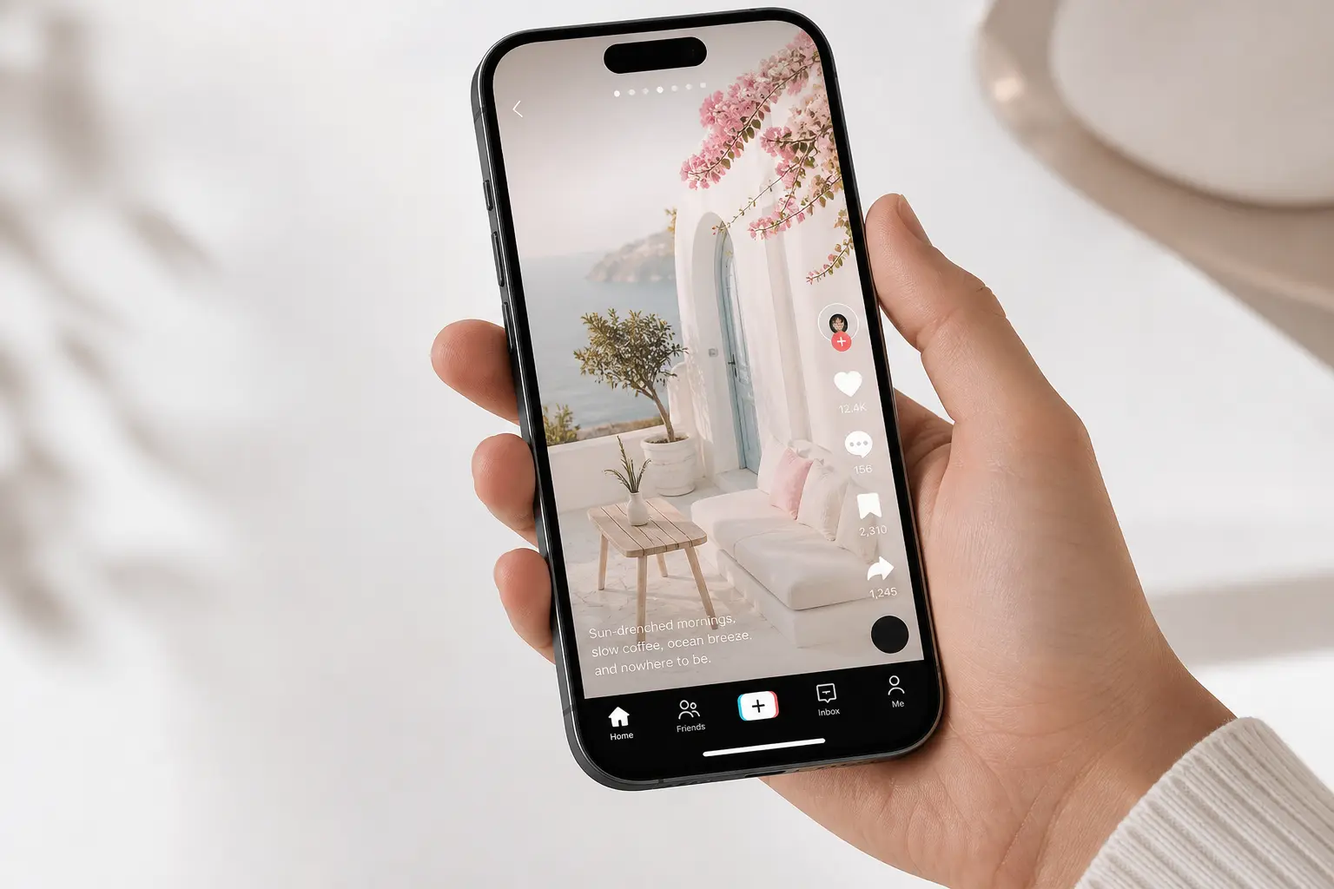
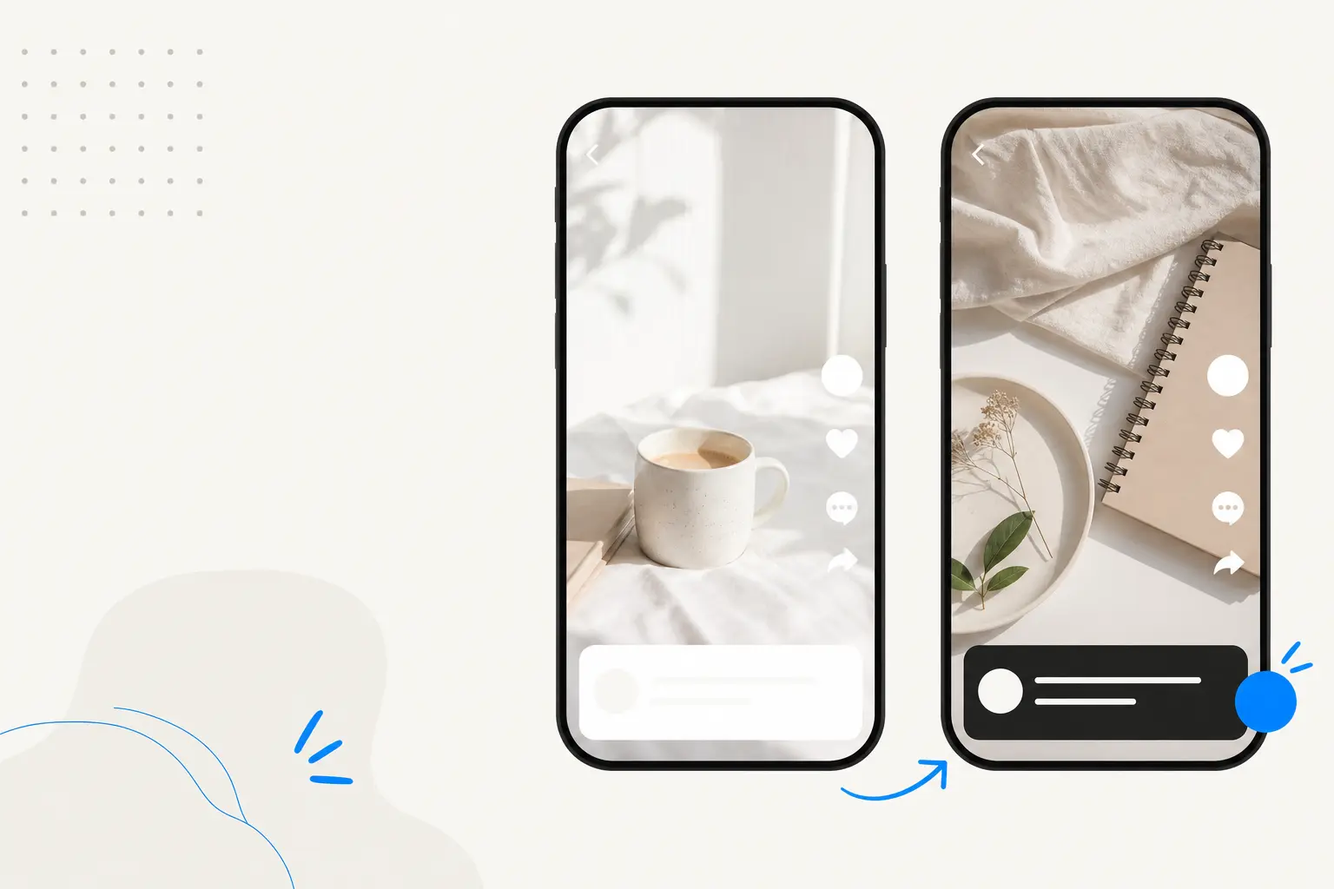
Update Post “tiktok-photo-mode-preview-text-formatting-before-you-post” +1

diff --git a/src/content/blog/en/tiktok-photo-mode-preview-text-formatting-before-you-post.md b/src/content/blog/en/tiktok-photo-mode-preview-text-formatting-before-you-post.md
@@ -1,35 +1,30 @@
 ---
-title: "TikTok Photo Mode: Preview Text Formatting Before You Post"
+translationKey: tiktok-photo-mode-preview-text-formatting-before-you-post
+title: 'TikTok Photo Mode: Preview Text Formatting Before You Post'
+subtitle: TikTok Photo Mode drops white caption text directly on your images - no safe zone. Here's how to check your layout before you publish.
 description: TikTok Photo Mode drops white caption text directly on your images - no safe zone. Here's how to check your layout before you publish.
 publishDate: 2026-06-22
+updatedDate: ''
 locale: en
 slug: tiktok-photo-mode-preview-text-formatting-before-you-post
-translationKey: tiktok-photo-mode-preview-text-formatting-before-you-post
 relatedPlatform: tiktok
 category: tiktok
-author: PostTruncate Team
-draft: true
+author: Anirudha
+draft: false
+ogImage: /og/TikTok_Photo_Mode_Hero.webp
 ---
-
-TikTok Photo Mode drops white caption text directly on your images - no safe zone. Here's how to check your layout before you publish.
-
-*June 22, 2026 · 11 min read*
-
-Two smartphone screens side by side showing TikTok photo carousel - one with invisible caption text on a light background, one with clearly readable caption
-
-* * *
 
 ## TL;DR
 
-TikTok Photo Mode (carousel) overlays your caption text directly on top of your still images using white text on a semi-transparent dark background. Unlike video posts, there is no automatic gradient safe zone protecting your caption from your photo. If your first slide has a light, pastel, or overexposed background, that white text disappears completely. The fix: preview your caption against your actual image before you post. The fold still kicks in at ~100 characters or your first line break - your hook has about one line to prove itself. Use a TikTok layout checker to simulate the real overlay before anything goes live.
+TikTok Photo Mode (carousel) overlays your caption text directly on top of your still images using white text on a semi-transparent dark background. Unlike video posts, there is no automatic gradient safe zone protecting your caption from your photo. If your first slide has a light, pastel, or overexposed background, that white text disappears completely. The fix: preview your caption against your actual image before you post. The fold still kicks in at \~100 characters or your first line break - your hook has about one line to prove itself. Use a TikTok layout checker to simulate the real overlay before anything goes live.
 
 ## I learned this the hard way
 
-I built [PostTruncate.com](/) because I kept getting burned by platforms that looked fine in my phone gallery and fell apart the moment they published.
+I built [PostTruncate.com](/) because I kept getting burned by platforms that looked fine in my phone gallery and fell apart the moment they were published.
 
 The TikTok Photo Mode incident was the one that actually made me stop and think about why I had no tool for this. I had been building character counters and fold simulators for months. I knew exactly where LinkedIn hides text, where Instagram folds captions, what X does to a link's character count. But carousel photos were a blind spot I had not thought through properly.
 
-One afternoon I spent a solid 20 minutes curating what felt like a genuinely nice photo dump. Morning light, consistent tones, the kind of pastel grid aesthetic that accounts with 200k followers make look effortless. I wrote a caption that I thought was sharp. Something about the color palette being intentional, then a question to drive replies. I posted it directly from the app and immediately opened TikTok to see how it looked in the feed.
+One afternoon, I spent a solid 20 minutes curating what felt like a genuinely nice photo dump. Morning light, consistent tones, the kind of pastel grid aesthetic that accounts with 200k followers make look effortless. I wrote a caption that I thought was sharp. Something about the colour palette being intentional, then a question to drive replies. I posted it directly from the app and immediately opened TikTok to see how it looked in the feed.
 
 The caption was invisible. Completely gone. Not truncated behind a "more" button - just visually absent. White text on a light cream-colored morning photo, with about the same contrast as writing in butter on white bread. The hook I had crafted was there in the data, technically, but nobody scrolling the For You Page would ever read it.
 
@@ -39,17 +34,17 @@ I have since heard almost the exact same story from social media managers, lifes
 
 ## What TikTok Photo Mode actually does to your caption
 
-When you post a standard TikTok video, the caption lives in a zone that the platform more or less controls. There is a dark gradient at the bottom of the video frame - a semi-transparent band that darkens the lower portion of the video so white caption text always has some contrast to sit against. Creators still need to keep important content out of the bottom ~20% of the frame (where that UI band lives), but the text itself tends to remain readable because TikTok designed the space for it.
+When you post a standard TikTok video, the caption lives in a zone that the platform more or less controls. There is a dark gradient at the bottom of the video frame - a semi-transparent band that darkens the lower portion of the video so white caption text always has some contrast to sit against. Creators still need to keep important content out of the bottom \~20% of the frame (where that UI band lives), but the text itself tends to remain readable because TikTok designed the space for it.
 
 Photo Mode is different in a way that catches creators off guard.
 
-In Photo Mode, TikTok overlays your caption on the bottom of your still image. There is a semi-transparent dark background behind the text - a thin gradient bar that is supposed to do what the video gradient does. And it works fine as long as your image has midtones or dark colors in the lower third. What it does not do is adapt to a bright, light, or overexposed image. The gradient is fixed. The overlay has a certain opacity. If your photo is mostly white at the bottom - a marble countertop, a white wall, a blown-out morning sky, a flat lay on white paper - that dark band does not get darker. It stays at the same translucency, and the white text on top of it disappears into the background.
+In Photo Mode, TikTok overlays your caption on the bottom of your still image. There is a semi-transparent dark background behind the text - a thin gradient bar that is supposed to do what the video gradient does. And it works fine as long as your image has midtones or dark colours in the lower third. What it does not do is adapt to a bright, light, or overexposed image. The gradient is fixed. The overlay has a certain opacity. If your photo is mostly white at the bottom - a marble countertop, a white wall, a blown-out morning sky, a flat lay on white paper - that dark band does not get darker. It stays at the same translucency, and the white text on top of it disappears into the background.
 
 This is not a bug you can report. It is just how the interface works. The platform renders the caption overlay the same way regardless of what is beneath it. The burden of making text readable against your image is entirely on you, the creator.
 
 Unlike video, where motion draws the eye and the content itself competes for attention, a carousel is a static composition. Every element of the visual design is frozen in place. Viewers who swipe into a carousel are not watching something happen - they are looking at a deliberate arrangement. Bad text contrast does not just degrade the reading experience; it clashes with the aesthetic in a way that registers immediately. It makes the post look unfinished.
 
-There is also the structural difference in how TikTok positions the caption. On video posts, the caption block sits below a certain amount of content. On Photo Mode posts, the caption is positioned so it genuinely overlays the visible image. The first thing many viewers see when they land on a carousel slide is the bottom third of that image, partially covered by the caption bar and the engagement buttons on the right. What is in that region of your image matters more than you might expect.
+There is also a structural difference in how TikTok positions the caption. On video posts, the caption block sits below a certain amount of content. On Photo Mode posts, the caption is positioned so it genuinely overlays the visible image. The first thing many viewers see when they land on a carousel slide is the bottom third of that image, partially covered by the caption bar and the engagement buttons on the right. What is in that region of your image matters more than you might expect.
 
 ## The safe zone geometry you need to know
 
@@ -57,25 +52,25 @@ Working in Photo Mode means working with a 1080 x 1920 pixel canvas - the standa
 
 ![TikTok Photo Mode safe zone diagram showing the three UI overlay regions on a 1080x1920 pixel canvas, with the center safe zone highlighted](https://cdn-public.eesel.ai/809a7b85-3028-4413-8616-f52982e792e8/16757f0d-0cc5-40a4-8ece-c1a9f9753432/4bc000ef0e7d4f059872847e2d71dc68.png)
 
-TikTok Photo Mode safe zone diagram showing the three UI overlay regions on a 1080x1920 pixel canvas, with the center safe zone highlighted
+<p align="center"><span style="font-size: 12px; "><em>TikTok Photo Mode safe zone diagram showing the three UI overlay regions on a 1080x1920 pixel canvas, with the centre safe zone highlighted</em></span></p>
 
-The **top ~10%** - approximately 192 pixels - is where the status bar and the For You / Following navigation tabs live. Put anything important there and it competes with the tab bar. For most still photography this is not a problem, since interesting visual content tends to sit in the center of a frame, but text elements, logos, or lower-thirds graphics placed at the very top of the image will partially disappear behind the tab UI.
+The **top \~10%** - approximately 192 pixels - is where the status bar and the For You / Following navigation tabs live. Put anything important there, and it competes with the tab bar. For most still photography, this is not a problem, since interesting visual content tends to sit in the centre of a frame, but text elements, logos, or lower-thirds graphics placed at the very top of the image will partially disappear behind the tab UI.
 
-The **right ~15%** - approximately 162 pixels from the right edge - is the engagement icon stack. Like, comment, bookmark, share, and the creator's profile photo all stack down the right rail of the screen. This strip is consistently populated with UI elements that are wider and more intrusive than many creators realize when shooting or editing. Any text or graphic element you place in that right-side column of your image will compete visually with those buttons, or worse, be partially covered by them.
+The **right \~15%** - approximately 162 pixels from the right edge - is the engagement icon stack. Like, comment, bookmark, share, and the creator's profile photo all stack down the right rail of the screen. This strip is consistently populated with UI elements that are wider and more intrusive than many creators realise when shooting or editing. Any text or graphic element you place in that right-side column of your image will compete visually with those buttons, or worse, be partially covered by them.
 
-The **bottom ~18 to 20%** - roughly 345 to 384 pixels - is where the most important collision happens. This is where the caption text appears, along with the username, any call-to-action elements, and the music ticker. When you are thinking about TikTok photo mode text formatting and preview, this is the region doing all the damage if your image is light-toned.
+The **bottom \~18 to 20%** - roughly 345 to 384 pixels - is where the most important collision happens. This is where the caption text appears, along with the username, any call-to-action elements, and the music ticker. When you are thinking about TikTok photo mode text formatting and preview, this is the region doing all the damage if your image is light-toned.
 
-That leaves an effective safe zone of roughly 918 pixels wide (85% of 1080) and the upper 70% of the image height for visual content that you want completely unobstructed. In practice, subject matter - faces, products, compositions - naturally gravitates toward the center of the frame, so most well-composed images already have important content in the safe zone. The caption conflict is more of a text-readability problem than a compositional one.
+That leaves an effective safe zone of roughly 918 pixels wide (85% of 1080) and the upper 70% of the image height for visual content that you want completely unobstructed. In practice, subject matter - faces, products, compositions - naturally gravitates toward the centre of the frame, so most well-composed images already have important content in the safe zone. The caption conflict is more of a text-readability problem than a compositional one.
 
 ## Why unreadable text kills carousel engagement harder than you think
 
-Carousels are not passive content. When a viewer encounters a photo carousel in the For You feed, they have to make an active choice: swipe through, or keep scrolling. That decision usually happens within the first one to two seconds of looking at slide one.
+Carousels are not passive content. When a viewer encounters a photo carousel in the For You feed, they have to make an active choice: swipe through or keep scrolling. That decision usually happens within the first one to two seconds of looking at slide one.
 
 ![Side-by-side comparison of a TikTok Photo Mode carousel: left shows invisible white caption text against a light background, right shows clearly readable caption after previewing with a layout tool](https://cdn-public.eesel.ai/809a7b85-3028-4413-8616-f52982e792e8/16757f0d-0cc5-40a4-8ece-c1a9f9753432/4c6e0a5f6fac42caa51cf08dfe4caeba.png)
 
-Side-by-side comparison of a TikTok Photo Mode carousel: left shows invisible white caption text against a light background, right shows clearly readable caption after previewing with a layout tool
+<p align="center"><span style="font-size: 12px; "><em>Side-by-side comparison of a TikTok Photo Mode carousel: left shows invisible white caption text against a light background, right shows clearly readable caption after previewing with a layout tool</em></span></p>
 
-On a video, the motion itself buys you attention. The opening frames of a video have visual energy even before a viewer reads a caption. On a still image, the photo carries all of that initial weight, and the caption is the second signal - it tells the viewer what to make of the image and whether there is a reason to swipe to slide two.
+In a video, the motion itself buys you attention. The opening frames of a video have visual energy even before a viewer reads a caption. On a still image, the photo carries all of that initial weight, and the caption is the second signal - it tells the viewer what to make of the image and whether there is a reason to swipe to slide two.
 
 If that caption is invisible, you lose the second signal entirely. The photo has to work on pure aesthetic appeal alone, with no textual context. Some creators can pull that off. But most creators using Photo Mode are using the caption to do real work: setting up a series, providing context for a photo dump, posing a question, dropping a hook that makes swiping through feel worthwhile. When that text disappears, so does the reason to engage.
 
@@ -89,11 +84,11 @@ Understanding TikTok photo mode layout before you publish is not optional if you
 
 The only reliable way to know whether your caption will be readable is to see it on your actual image before anything goes live. This is exactly the problem I built a solution for.
 
-[PostTruncate's TikTok caption preview tool](/en/tiktok-caption-checker) lets you upload a 9:16 image or video thumbnail, type your caption into the editor, and see a real-time simulation of how TikTok will render the text overlay. The character counter tracks where you are relative to the ~100-character fold, and the safe-zone overlay shows you which regions of your image are covered by the UI.
+[PostTruncate's TikTok caption preview tool](/en/tiktok-caption-checker) lets you upload a 9:16 image or video thumbnail, type your caption into the editor, and see a real-time simulation of how TikTok will render the text overlay. The character counter tracks where you are relative to the \~100-character fold, and the safe-zone overlay shows you which regions of your image are covered by the UI.
 
 ![Interface of the PostTruncate TikTok caption preview tool showing a split-panel view with a text editor on the left and a live phone-screen preview on the right, simulating how captions appear over a carousel image](/og/tiktok-photo-mode-preview-text-formatting-before-you-post-3.png)
 
-Interface of the PostTruncate TikTok caption preview tool showing a split-panel view with a text editor on the left and a live phone-screen preview on the right, simulating how captions appear over a carousel image
+<p align="center"><span style="font-size: 12px; "><em>Interface of the PostTruncate TikTok caption preview tool showing a split-panel view with a text editor on the left and a live phone-screen preview on the right, simulating how captions appear over a carousel image</em></span></p>
 
 The practical workflow looks like this: you finish editing your carousel in whatever photo editing app you use, export the first slide at full resolution, then drop it into the preview. You type your caption and immediately see whether the text sits on a dark enough area of the image to stay readable. If the overlay is fighting the background, you know to either revise the photo (add a gradient to the bottom third, darken that region, or switch to a different slide for the lead image) or adjust your caption format.
 
@@ -105,9 +100,9 @@ For social media managers handling multiple client accounts, this preview step i
 
 I have tested enough carousel posts to have a fairly consistent pre-post checklist. It is not complicated, but skipping any step in it is how I used to end up with the invisible-caption problem.
 
-**Photo selection and editing first.** When I am building a carousel, I deliberately look at the lower third of every candidate for slide one. If the image is bright or light in that region, I either swap it for a different lead image or I add a subtle gradient in editing - darkening from the center down to the bottom edge. Not enough to change the photo's aesthetic, just enough to give the caption bar something to contrast against.
+**Photo selection and editing first.** When I am building a carousel, I deliberately look at the lower third of every candidate for slide one. If the image is bright or light in that region, I either swap it for a different lead image or I add a subtle gradient in editing - darkening from the centre down to the bottom edge. Not enough to change the photo's aesthetic, just enough to give the caption bar something to contrast against.
 
-**Write the caption with the fold in mind.** I draft in PostTruncate's editor so I can see the live character count. The goal is a hook that lands in the first 90 characters, leaves no line break before that, and makes someone want to swipe. Everything else - context, hashtags, credit lines, location - goes below the fold. Hashtags especially: a wall of hashtags above your hook burns through your visible character budget and pushes the actual message below the "more" button before most people see it.
+**Write the caption with the fold in mind.** I draft in PostTruncate's editor so I can see the live character count. The goal is a hook that lands in the first 90 characters, leaves no line break before that, and makes someone want to swipe. Everything else - context, hashtags, credit lines, location - goes below the fold. Hashtags, especially: a wall of hashtags above your hook burns through your visible character budget and pushes the actual message below the "more" button before most people see it.
 
 **Run the preview against slide one.** Once I have the photo and the caption, I drop both into the [TikTok layout preview](/en/tiktok-caption-checker) and check three things: is the text readable, does the hook clear the safe zone, and does the visible portion of the caption end in a way that makes tapping "more" feel worthwhile or at least not punishing?
 
@@ -115,7 +110,7 @@ I have tested enough carousel posts to have a fairly consistent pre-post checkli
 
 **Post and monitor the first 30 minutes.** Carousel completion rate (the share of viewers who swipe through all slides) and comment volume are the signals I watch most closely right after posting. Both are sensitive to whether slide one's caption is doing its job. If completion is low, it almost always traces back to something on that first frame.
 
-This is a five-minute check that has saved me from discovering formatting problems after the fact. The post-publish fix - deleting, editing, re-uploading, hoping the algorithm does not penalize you for the deletion - is not a real fix. The algorithm already saw the early drop-off.
+This is a five-minute check that has saved me from discovering formatting problems after the fact. The post-publish fix - deleting, editing, re-uploading, hoping the algorithm does not penalise you for the deletion - is not a real fix. The algorithm already saw the early drop-off.
 
 ## Try PostTruncate
 
@@ -125,26 +120,24 @@ For TikTok creators, social media managers, and aesthetic influencers who care a
 
 If you have ever posted a carousel and noticed the engagement fall flat despite photos you felt good about, there is a reasonable chance the caption was the problem. Take 60 seconds to check it before the next one goes out.
 
-* * *
+## FAQs
 
-## Frequently Asked Questions
-
-</br><details><summary><b>What is TikTok Photo Mode and how is it different from regular video posts?</b></summary>
-<p>TikTok Photo Mode (also called carousel mode) lets you post up to 35 still images that viewers swipe through, rather than a looping video. The key UI difference: instead of the caption sitting in a gradient-backed safe zone at the bottom like on videos, the caption text overlays directly on your still image with a semi-transparent dark background. Because the image is static, any color clash between your photo and the caption text is immediately obvious - there is no motion to distract from it.</p>
+<details><summary><b>What is TikTok Photo Mode and how is it different from regular video posts?</b></summary>
+<p>TikTok Photo Mode (also called carousel mode) lets you post up to 35 still images that viewers swipe through, rather than a looping video. The key UI difference: instead of the caption sitting in a gradient-backed safe zone at the bottom like in videos, the caption text overlays directly on your still image with a semi-transparent dark background. Because the image is static, any colour clash between your photo and the caption text is immediately obvious - there is no motion to distract from it.</p>
 </details>
 
-</br><details><summary><b>How do I fix unreadable caption text on TikTok Photo Mode carousels?</b></summary>
-<p>The most reliable fix is to preview your caption against your actual image before posting. Use <a href="/en/tiktok-caption-checker">PostTruncate&#39;s TikTok caption preview tool</a> to upload your image and simulate exactly how the UI overlay will look. For the photos themselves, choosing images with darker lower thirds (or editing a subtle gradient into them) gives the white TikTok caption text enough contrast to read cleanly.</p>
+<details><summary><b>How do I fix unreadable caption text on TikTok Photo Mode carousels?</b></summary>
+<p>The most reliable fix is to preview your caption against your actual image before posting. Use <a href="/en/tiktok-caption-checker">PostTruncate's TikTok caption preview tool</a> to upload your image and simulate exactly how the UI overlay will look. For the photos themselves, choosing images with darker lower thirds (or editing a subtle gradient into them) gives the white TikTok caption text enough contrast to read cleanly.</p>
 </details>
 
-</br><details><summary><b>What are the TikTok Photo Mode layout safe zones for 1080x1920 images?</b></summary>
-<p>On a standard 1080x1920 pixel canvas, three areas are covered by TikTok&#39;s native UI: the top ~10% (status bar and navigation tabs, roughly 192 pixels), the right ~15% (engagement buttons, roughly 162 pixels wide), and the bottom ~18-20% (caption text, username, and music ticker, roughly 345-384 pixels). Your effective safe zone for important visual content is the center region, covering roughly 918 pixels wide and the upper 70% of the image height.</p>
+<details><summary><b>What are the TikTok Photo Mode layout safe zones for 1080x1920 images?</b></summary>
+<p>On a standard 1080x1920 pixel canvas, three areas are covered by TikTok's native UI: the top \~10% (status bar and navigation tabs, roughly 192 pixels), the right \~15% (engagement buttons, roughly 162 pixels wide), and the bottom \~18-20% (caption text, username, and music ticker, roughly 345-384 pixels). Your effective safe zone for important visual content is the centre region, covering roughly 918 pixels wide and the upper 70% of the image height.</p>
 </details>
 
-</br><details><summary><b>Does TikTok Photo Mode caption text cut off the same way as video captions?</b></summary>
-<p>Yes. Photo Mode uses the same caption truncation behavior as standard video posts. The &#39;...more&#39; fold kicks in after roughly 100 characters or at the first line break, whichever comes first. Your hook must fit in the first 100 characters of your caption with no early line breaks. Hashtags, credits, and extended copy go below the fold, where only viewers who tap &#39;more&#39; will see them.</p>
+<details><summary><b>Does TikTok Photo Mode caption text cut off the same way as video captions?</b></summary>
+<p>Yes. Photo Mode uses the same caption truncation behaviour as standard video posts. The '...more' fold kicks in after roughly 100 characters or at the first line break, whichever comes first. Your hook must fit in the first 100 characters of your caption with no early line breaks. Hashtags, credits, and extended copy go below the fold, where only viewers who tap 'more' will see them.</p>
 </details>
 
-</br><details><summary><b>Why do my TikTok carousel posts have low engagement even with good photos?</b></summary>
+<details><summary><b>Why do my TikTok carousel posts have low engagement even with good photos?</b></summary>
 <p>Low engagement on carousels often traces back to the caption - specifically an unreadable hook. When white TikTok caption text lands over a light-toned image on slide one, most viewers cannot read your opening line. Since the caption is the primary driver of swipes and comments on a static photo post (unlike video, where motion hooks attention), an invisible hook means most users scroll past without engaging at all. Checking your text contrast before posting is one of the highest-leverage fixes available.</p>
 </details>
